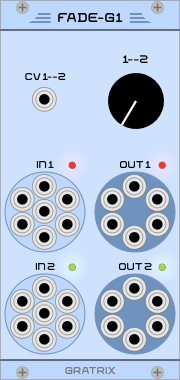
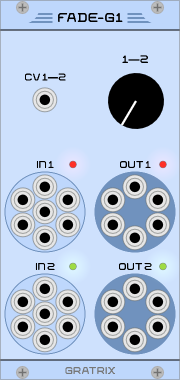
Very minor improvements to UI of faders.

diff --git a/src/Fade-G2.cpp b/src/Fade-G2.cpp
@@ -136,8 +136,9 @@ Widget::Widget()
 	{
 		PanelGen pg(assetPlugin(plugin, "build/res/Fade-G2.svg"), box.size, "FADE-G2");
 
-		pg.prt_in2(0, -0.28, "CV 1--2");   pg.nob_big(1, 0, "1--2");
-		pg.prt_in2(0, +0.28, "CV A--B");   pg.nob_big(2, 0, "A--B");
+		// ― is a horizontal bar see https://en.wikipedia.org/wiki/Dash#Horizontal_bar
+		pg.prt_in2(0, -0.28, "CV 1―2");   pg.nob_big(1, 0, "1―2");
+		pg.prt_in2(0, +0.28, "CV A―B");   pg.nob_big(2, 0, "A―B");
 
 		pg.bus_in(0, 1, "IN 1A"); pg.bus_out(2, 1, "OUT");
 		pg.bus_in(1, 1, "IN 1B");
@@ -183,8 +184,8 @@ Widget::Widget()
 	{
 		for (std::size_t y=0; y<2; ++y)
 		{
-			addChild(createLight<SmallLight<GreenRedLight>>(led(gx(x)+rad_led()/2+28, gy(y+1)-46-rad_led()), module, i)); i+=2;
-			addChild(createLight<SmallLight<GreenRedLight>>(led(gx(x)+rad_led()/2+28, gy(y+1)-46+rad_led()), module, i)); i+=2;
+			addChild(createLight<SmallLight<GreenRedLight>>(led(gx(x)+rad_led()/2+28, gy(y+1)-47.5-(1+rad_led())), module, i)); i+=2;
+			addChild(createLight<SmallLight<GreenRedLight>>(led(gx(x)+rad_led()/2+28, gy(y+1)-47.5+(1+rad_led())), module, i)); i+=2;
 		}
 	}
 }

diff --git a/src/Fade-G1.cpp b/src/Fade-G1.cpp
@@ -103,7 +103,8 @@ Widget::Widget()
 	{
 		PanelGen pg(assetPlugin(plugin, "build/res/Fade-G1.svg"), box.size, "FADE-G1");
 
-		pg.prt_in2(0, 0, "CV 1--2");   pg.nob_big(1, 0, "1--2");
+		// ― is a horizontal bar see https://en.wikipedia.org/wiki/Dash#Horizontal_bar
+		pg.prt_in2(0, 0, "CV 1―2");   pg.nob_big(1, 0, "1―2");
 
 		pg.bus_in(0, 1, "IN 1"); pg.bus_out(1, 1, "OUT 1");
 		pg.bus_in(0, 2, "IN 2"); pg.bus_out(1, 2, "OUT 2");
@@ -141,7 +142,7 @@ Widget::Widget()
 	{
 		for (std::size_t y=0; y<2; ++y)
 		{
-			addChild(createLight<SmallLight<GreenRedLight>>(led(gx(x)+28, gy(y+1)-46), module, i)); i+=2;
+			addChild(createLight<SmallLight<GreenRedLight>>(led(gx(x)+28, gy(y+1)-47.5), module, i)); i+=2;
 		}
 	}
 }
